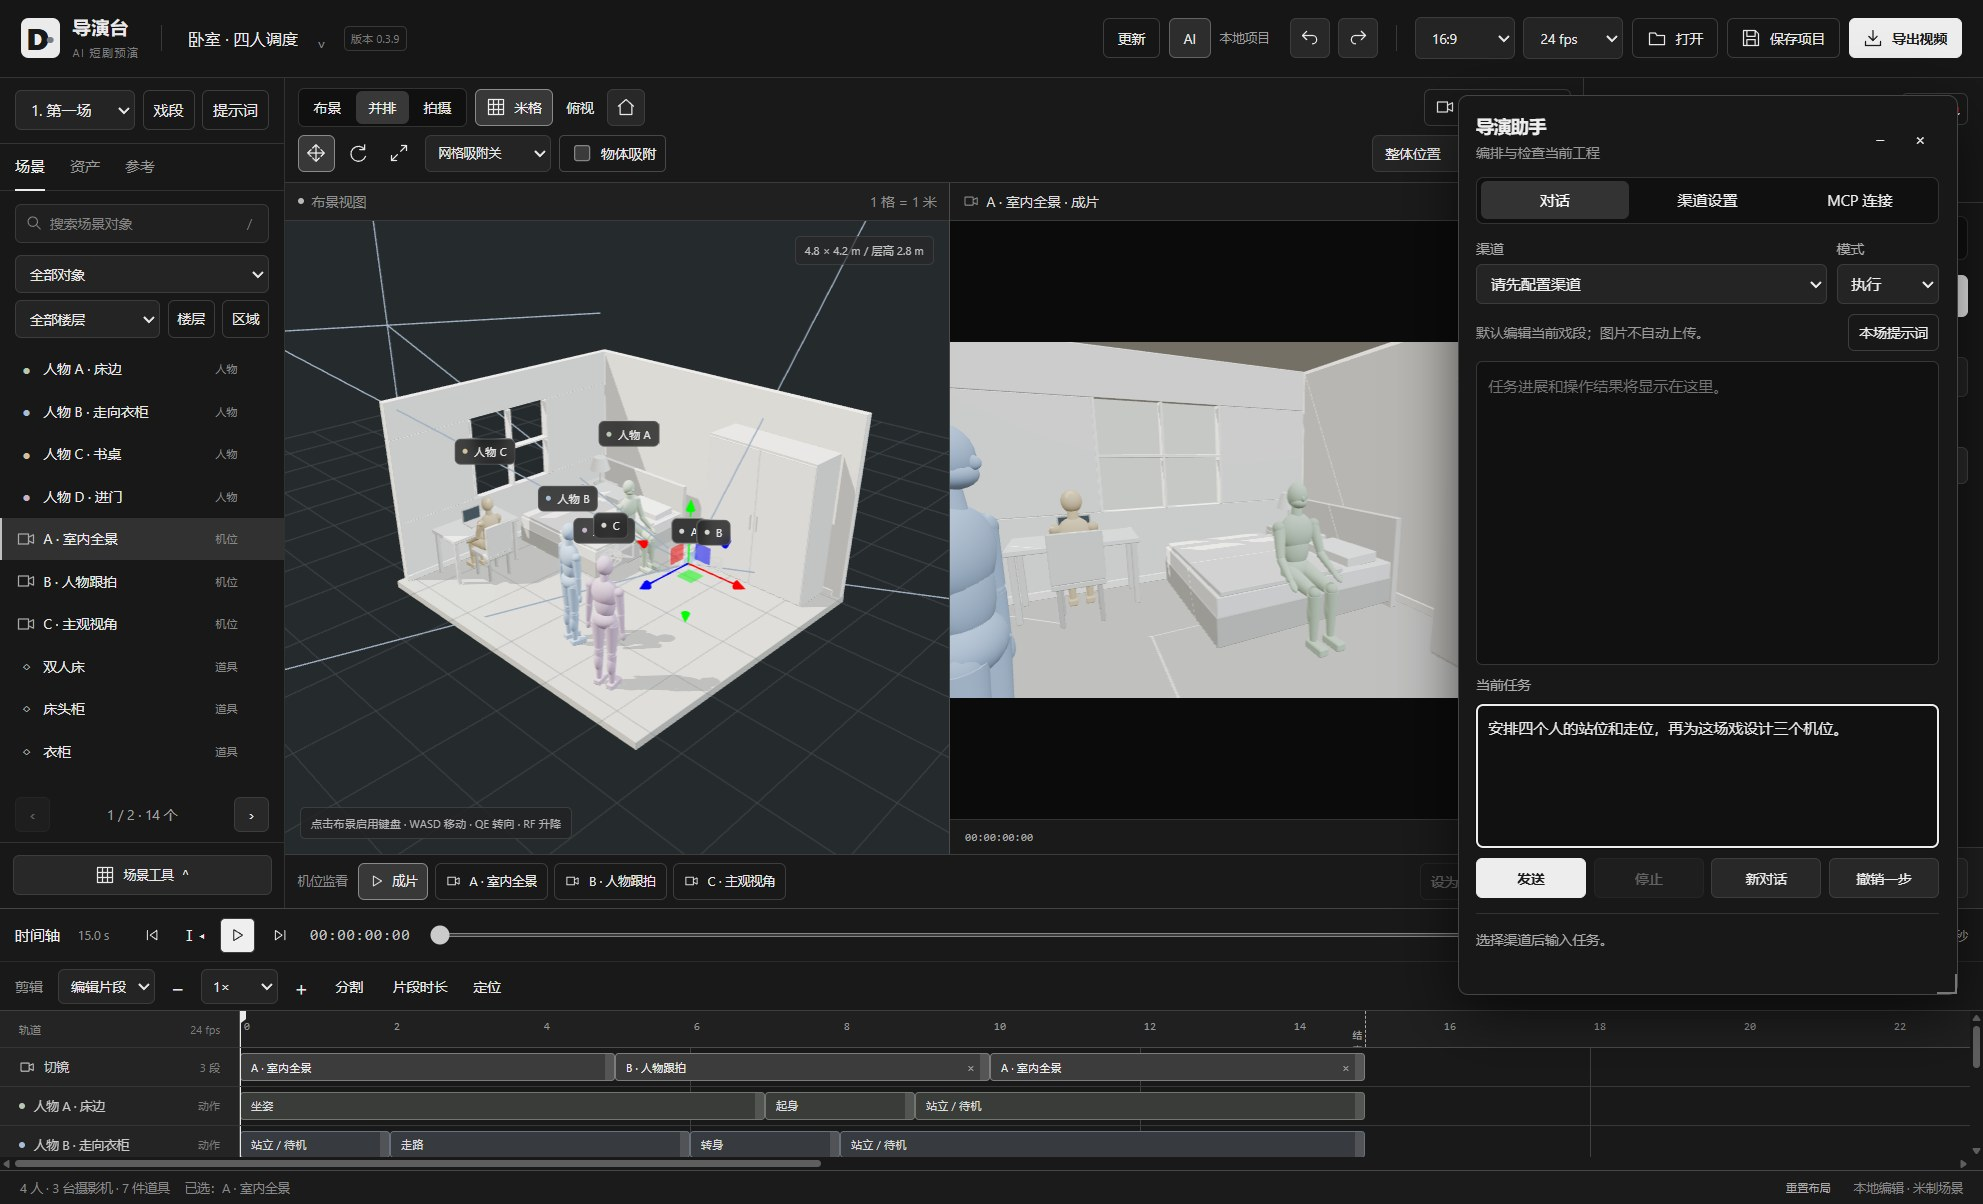
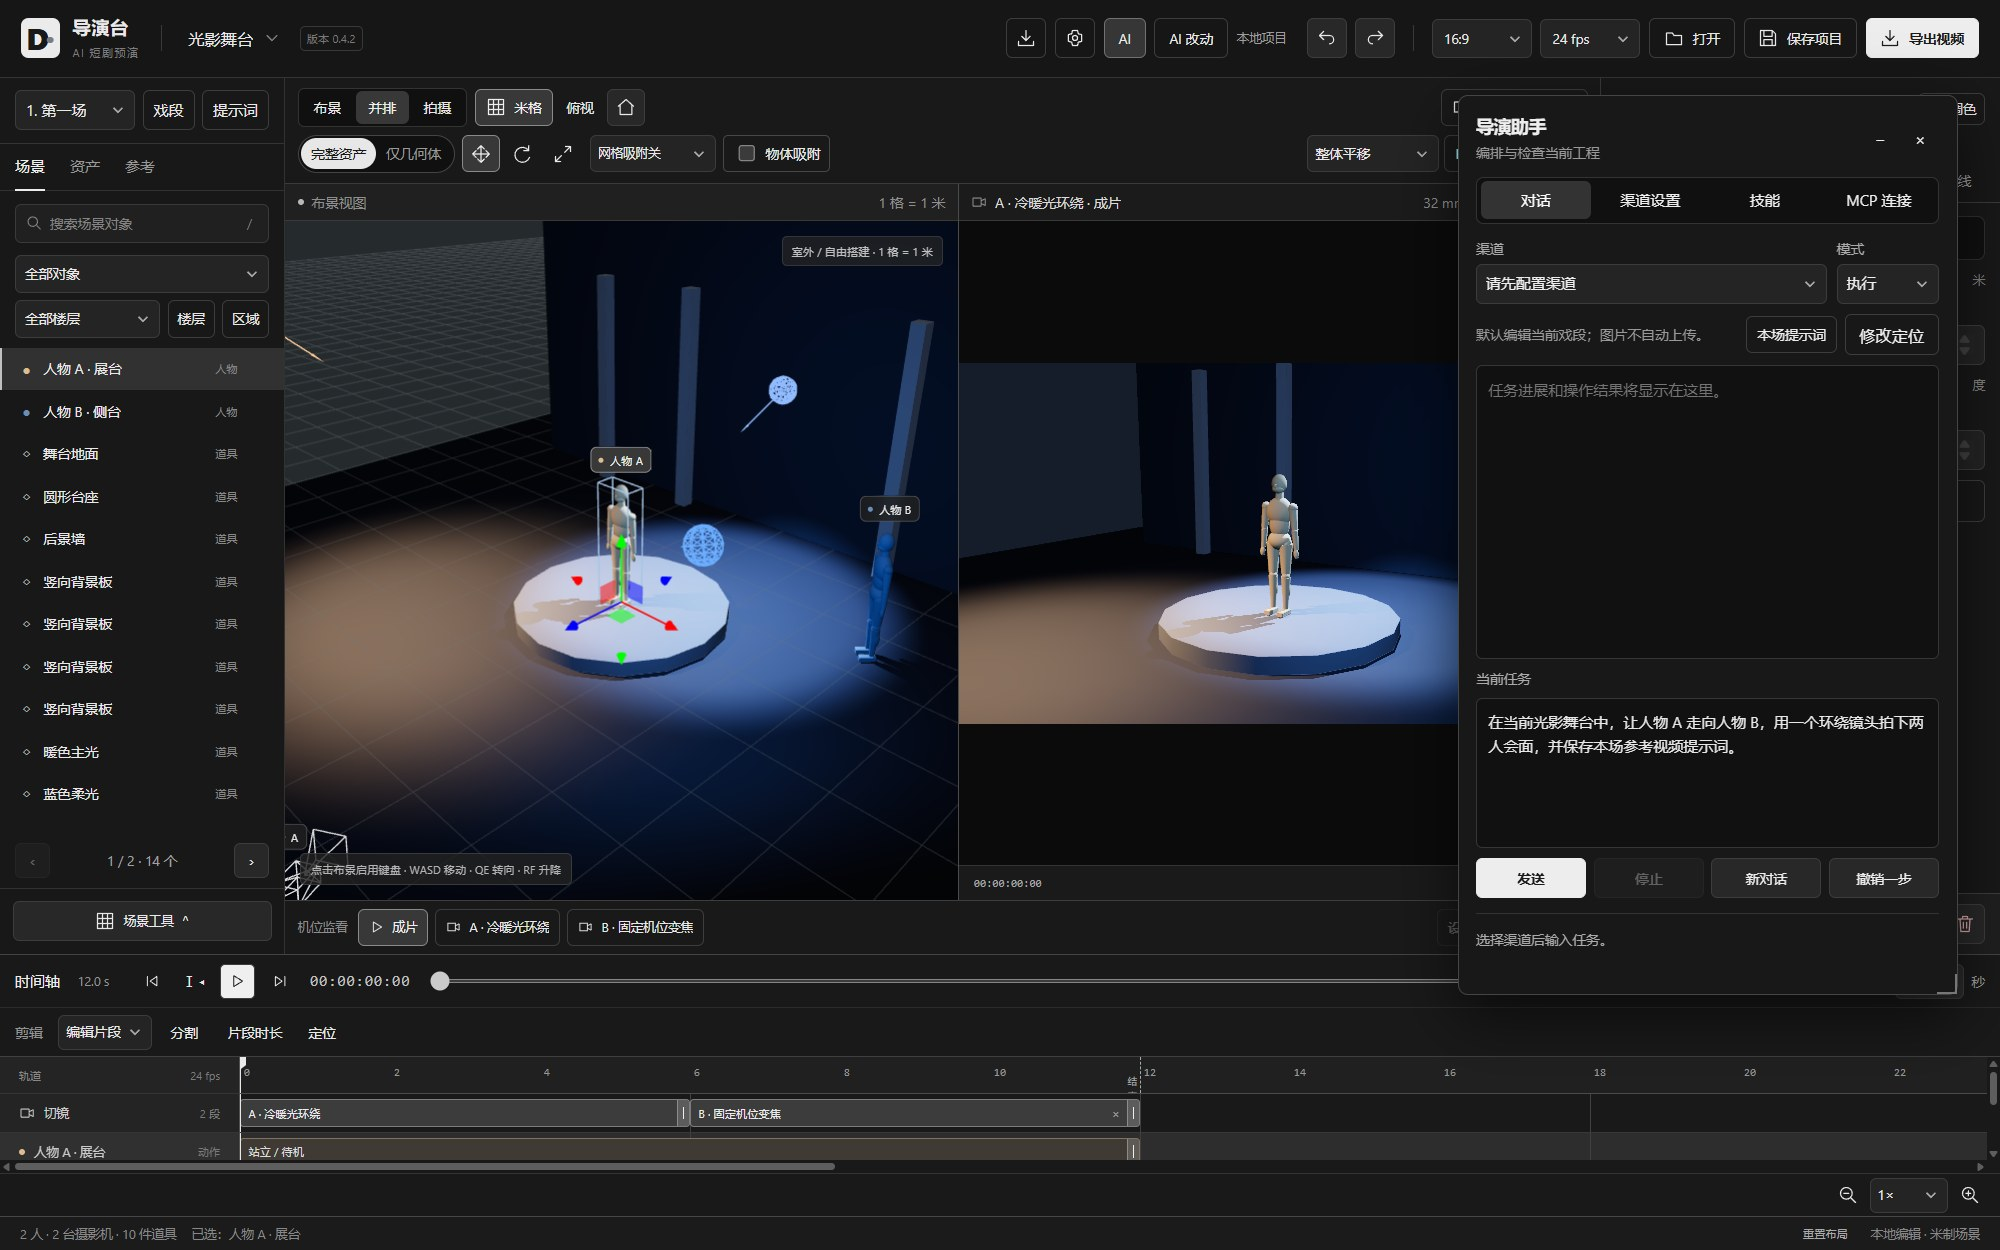
docs: refresh README with all eight scene demos and current UI

diff --git a/README.md b/README.md
@@ -1,80 +1,82 @@
 # 导演台 · DirectorDesk
 
-面向 AI 短剧和视频创作的三维预演工具。先搭场景、排人物走位和运镜，再导出参考视频。支持手动制作，也支持 AI 助手和 MCP Agent 直接操作工程。
+面向 AI 短剧和视频创作的三维预演工具。搭场景、排走位、设计运镜，再导出参考视频。可以手动制作，也可以让内置 AI 助手或外部 MCP Agent 直接操作当前工程。
 
-[下载 Windows 版](https://github.com/mangfufu/director-desk/releases/latest) · [获取配套 skill](https://github.com/mangfufu/director-desk/releases/latest) · [MIT License](LICENSE)
+[下载 Windows 版](https://github.com/mangfufu/director-desk/releases/latest) · [配套 skill](https://github.com/mangfufu/director-desk/releases/latest) · [MIT License](LICENSE)
 
-![布景与摄影机画面并排预览，下方编排动作和切镜](docs/images/workspace.jpg)
+![0.4.2 光影舞台：布景与摄影机并排预览，下方编排动作和切镜](docs/images/workspace.jpg)
+
+## 场景与运镜演示
+
+以下动图全部来自软件内置模板的实际摄影机输出，按原速播放，仅降低分辨率和帧率；空房间截取前 8 秒。打开“新建工程 / 模板”即可继续编辑；空白场地也保留供自由搭建。
+
+| 光影舞台 · 冷暖布光、环绕与变焦 | 悬疑长廊 · 希区柯克变焦 |
+| --- | --- |
+| ![光影舞台实际运镜](docs/images/light-stage.gif) | ![悬疑长廊：主体大小稳定，背景空间变化](docs/images/dolly-hall.gif) |
+| 夜街追逐 · 双人奔跑、手持晃动与广角畸变 | 卧室 · 四人调度、窗光与床头暖灯 |
+| ![夜街追逐实际运镜](docs/images/neon-chase.gif) | ![卧室四人调度](docs/images/bedroom.gif) |
+| 空房间 · 窗光、木地板，留空布置 | 林地空地 · 树群、步道与双人调度 |
+| ![空房间场景预览](docs/images/room.gif) | ![林地空地人物与摄影机运动](docs/images/park.gif) |
+| 街道 · 黄昏商铺、人行道与路灯 | 庭院 · 门架、格栅凉棚与台阶平台 |
+| ![黄昏街道预览](docs/images/street.gif) | ![庭院场景预览](docs/images/courtyard.gif) |
+
+<details>
+<summary>查看模板选择界面</summary>
+
+![新版场景模板选择界面](docs/images/templates.jpg)
+
+</details>
 
 ## 能做什么
 
 | 功能 | 用法 |
 | --- | --- |
-| 白模搭景 | 使用人物、动物、家具、建筑、道路和道具，调整尺寸、颜色与摆放位置 |
-| 场景模板 | 从卧室、室外场景、光影舞台、变焦长廊和夜街追逐开始制作，也可从空白场地搭建 |
-| 仅几何体 | 用六种基础几何体组合、上色，快速表达人物和场景；AI 按需检索资产 |
-| 导入模型 | 导入 GLB/glTF、FBX 和 OBJ 资源，随工程保存 |
-| 人物调度 | 编排站位、走位路径、基础动作和群演，支持手持道具绑定 |
-| 用户动作库 | 导入骨架动作或收藏模型自带动作，预览、搜索并跨工程使用 |
-| 操控录制 | 用键盘控制白模移动，将走位录成可继续编辑的路径 |
-| 摄影机与运镜 | 从三维场景真实取景，编排多机位路径、视线、跟随、POV 和切镜 |
-| 镜头效果与光影 | 运镜预设、希区柯克变焦、手持、畸变与景深；摆放灯光，调整环境与灯光关键帧 |
-| 曲线编辑 | 拖动控制柄调整路径、镜头和灯光的变化速度，插入停留并定位关键帧区间 |
-| AI 修改定位 | 查看内置助手与 MCP 的成功修改，点击跳到对应戏段、对象和时间 |
-| 时间轴编辑 | 缩放、拖动、分割片段、调整时长，手动记录位置关键帧 |
-| 多场戏接拍 | 同工程切换独立戏段，从上一段末帧继承场景和人物状态 |
-| 视频与提示词 | 单场或批量导出戏段视频，可修改输出文件名；导出工程和素材包，可选人物名字标签；各戏段独立保存配套视频提示词 |
-| AI 协作 | 内置助手与外部 MCP Agent 查询空间、编辑当前工程、检查和修正调度 |
-| 自定义技能 | 导入自己的 SKILL.md 或技能目录，从 GitHub 下载技能，自由启用、停用和更新 |
+| 白模搭景 | 人物、动物、家具、建筑、道路和道具；调整尺寸、颜色与位置，支持物体吸附 |
+| 仅几何体 | 用六种基础形状组合、命名、上色，快速表达空间；完整资产模式按需检索模型 |
+| 模型与动作导入 | 导入 GLB/glTF、FBX、OBJ 模型；导入骨架动作或收藏模型自带动作，加入用户动作库 |
+| 人物调度 | 走位路径、基础动作、群演和手持道具绑定；用键盘操控白模并录制路径 |
+| 摄影机 | 同场景真实取景，多机位路径、视线、跟随、POV 和切镜 |
+| 运镜与镜头效果 | 运镜预设、希区柯克变焦、手持晃动、畸变、景深与对焦 |
+| 灯光 | 摆放灯光，调整颜色、强度和阴影，编排环境与灯光关键帧 |
+| 时间轴与曲线 | 拖动、缩放、分割和调整片段；用曲线控制加速、减速与停顿 |
+| 多场戏接拍 | 同工程管理独立戏段，从上一段末帧继承场景与人物状态 |
+| 导出 | 单场或批量导出视频、修改输出文件名，保存工程与素材包；可选人物名称标签 |
+| AI 协作 | 内置助手和 MCP Agent 查询空间、编辑当前工程；点击修改记录定位对象与时间 |
+| 提示词与技能 | 每场保存配套视频提示词；导入、下载和启停自定义技能，支持离线生成工程 |
 
-### 资产与摄影机
+<details>
+<summary>查看灯光与摄影机设置</summary>
 
-选择白模搭建场景，调整人物和道具，再设置摄影机的景别、目标与运动路径。
+![光影舞台：直接调整灯光强度、颜色和阴影](docs/images/lighting.jpg)
 
-![内置资产库与摄影机参数](docs/images/camera-path.jpg)
+![悬疑长廊：摄影机取景与参数](docs/images/camera-path.jpg)
 
-### 让 AI 直接操作
+</details>
 
-**内置导演助手**：配置模型渠道后，用自然语言提出搭景、走位或镜头调整要求。助手窗口支持拖动、缩放和收起。
+## 让 AI 直接操作
 
-**MCP Agent**：在软件的 **AI → MCP 连接** 中复制连接配置，让 Agent 读取内置 `director_skill`，即可操作当前工程。它能查询指定时刻的位置与空间关系，再继续修改场景、机位和分镜。
+**内置导演助手**：配置模型渠道，用自然语言提出搭景、走位和镜头调整要求。助手窗口可拖动、缩放和收起，支持执行与讨论模式。
 
-配套 skill 随软件提供，也支持生成可导入网页版本的 `.director` 工程文件。
+![新版导演助手：光影舞台中的任务输入示例，尚未发送](docs/images/ai-assistant.jpg)
 
-**自定义技能（桌面版）**：打开 **AI → 技能**，导入 `SKILL.md` 或包含它的整个文件夹；也可以粘贴公开 GitHub 技能目录链接下载。启用后助手会根据任务按需读取，外部 Agent 用 `director_skill({action:"list"})` 查看启用列表，再用 `id` 读取正文、`path` 读取附属文本。停用从下一次任务生效，已有对话完整保留。外部 Agent 应重新查询列表以了解开关变化。
+**外部 MCP Agent**：在桌面版的 **AI → MCP 连接** 中启用服务、复制连接配置。让支持 MCP 的 Agent 读取内置 `director_skill`，即可查询指定时刻的位置、理解空间关系并编辑当前工程。成功修改可以定位查看，也可以撤销。
 
-用户技能独立保存在本机配置目录，软件更新不覆盖它们。可打开目录修改文件，再点“重新加载”；GitHub 来源可点“更新”。内置技能也可停用。附属脚本随包保留，内置助手当前使用说明与文本参考，不会自动执行脚本。
+**自定义技能**：在 **AI → 技能** 导入自己的 SKILL.md 或技能文件夹，也可从公开 GitHub 技能目录下载，自由启用、停用和更新。技能保存在本机，软件升级保留用户技能。
 
-制作自己的技能只需一个文件夹，根部放 `SKILL.md`，例如：
-
-```markdown
----
-name: 我的创作方法
-description: 编排动作戏时使用，强调人物目标和空间变化。
----
-按用户确认的剧情编排追逐，明确逃跑路线、障碍和双方反应。
-需要进一步的示例时读取 references/examples.md。
-```
-
-参考资料可放入 `references/`，也可使用自己的子目录。使用第三方技能时保留其许可说明。
-
-![导演助手窗口与任务输入](docs/images/ai-assistant.jpg)
+配套 [skill 与离线工具](skills/director-desk/) 随软件提供，也可独立下载；没有 MCP 时，Agent 仍可生成可导入网页版本的 .director 工程文件。
 
 ## 开始使用
 
 1. 从 [Releases](https://github.com/mangfufu/director-desk/releases/latest) 下载 Windows 安装包或免安装 ZIP。
-2. 安装后启动，或完整解压 ZIP 后运行 `DirectorDesk.exe`。
-3. 选择场景模板，加入人物与道具，在时间轴上安排动作和镜头。
-4. 播放预览，导出参考视频；点击戏段旁的“提示词”查看、编辑或导出配套文案。
+2. 安装后启动，或完整解压 ZIP 后运行 DirectorDesk.exe。
+3. 选择场景模板，摆放人物与道具，在时间轴上编排动作和镜头。
+4. 播放预览，导出参考视频；点击戏段旁的“提示词”查看、编辑或导出文案。
 
-支持常见横竖画幅与帧率。工程可保存为文件，之后继续编辑或交给 Agent 调整。
-桌面版可在“文件位置”设置默认工程和导出目录，退出时可选择保存并退出、不保存退出或取消。
+齿轮设置中可配置默认工程与导出目录。导出时选择“批量戏段”，勾选需要的戏段并修改文件名，各段沿用自己的画幅、时长和切镜。
 
-导出窗口选择“批量戏段”，勾选需要的戏段并编辑文件名。每场分别输出视频，沿用各自的画幅、时长和切镜；桌面版可直接保存到默认导出目录，同名文件自动编号。输出文件重命名不改变工程中的戏段名称。
+“用户动作库”支持预览、命名、搜索和骨架映射，可跨工程使用。已应用动作的源素材随工程保存，删除本机收藏不影响已有工程。
 
-“用户动作库”可导入带骨架动画的 FBX、GLB/glTF，包括没有人物网格的独立动作；支持预览、命名、搜索、骨架映射和跨工程收藏。选中人物后添加到时间轴，也可以从导入模型的“动画”页收藏自带动作。已应用的源素材随工程保存，删除本机收藏不影响工程；MCP 和内置 AI 可按名称查询、应用用户动作。
-
-Windows 桌面版在“更新”中默认同时检查网站和 GitHub 最新正式 Release，取较新版本，也可选择单个来源。安装版支持下载后手动重启安装；免安装版从下载页获取新版 ZIP。检查不会自动下载或安装。
+Windows 版启动时检查网站和 GitHub 的最新正式版本，也可手动检查。安装版支持下载后重启安装；免安装版下载新版 ZIP。
 
 ## 本地开发
 
